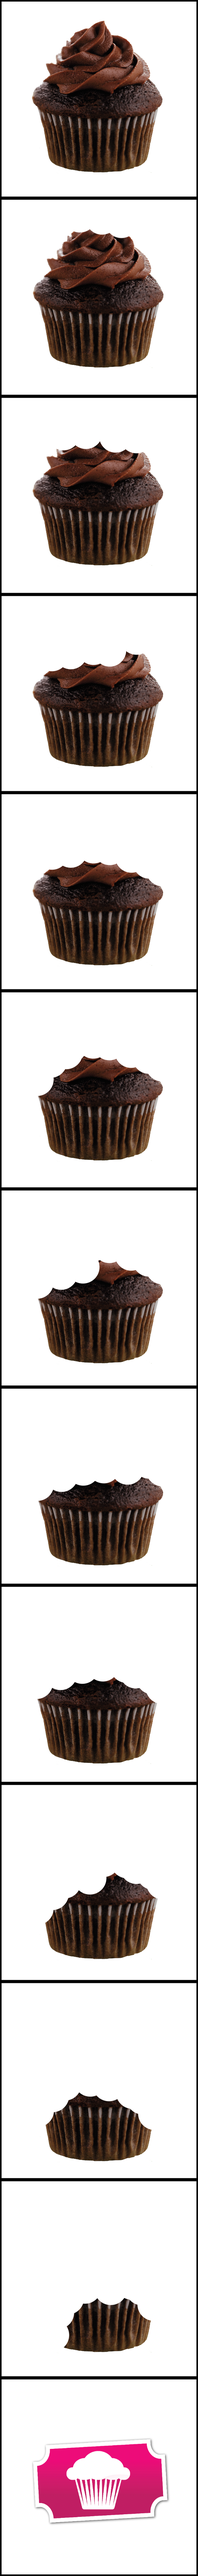
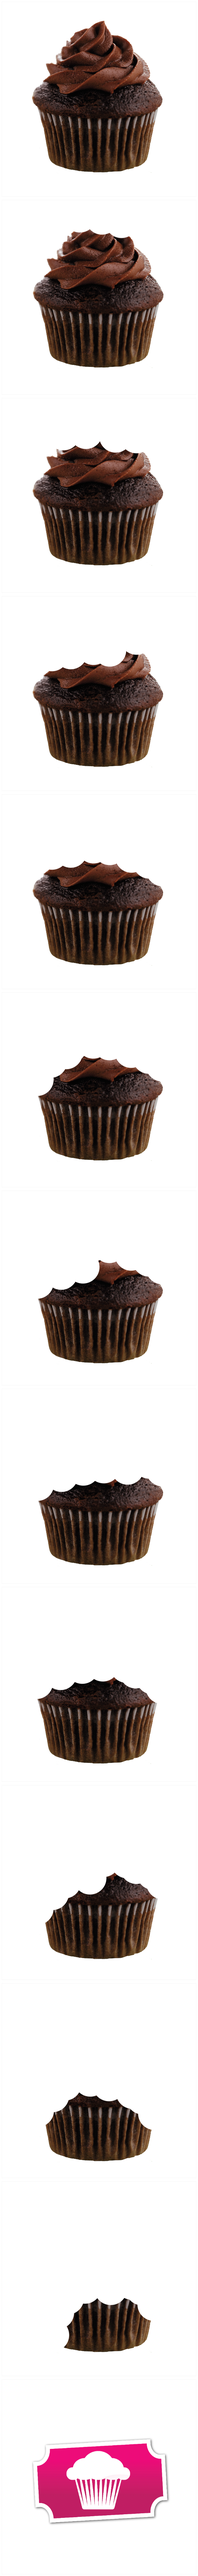
Use of sprites, first cake

Changed region(s): [[0.0, 0.0, 1.0, 1.0]]

diff --git a/java.js b/java.js
@@ -24,6 +24,9 @@ $(window).load(function(){
 //What cake to start with
 var i = 1;
 
+//Begin at the top of the sprite
+var sprite = 0;
+
 //Info
 var title = 'Eat All The Cake';
 var heading = "I'm hungry, gimme cake!";
@@ -287,19 +290,20 @@ function feed(){
 
 	// Change headings
 	i++
+	sprite = sprite + 500;
+
 	if(i == 13){ 
 		count++;
 		document.getElementById('heading').innerHTML = '<h1>'+count+' Cakes eaten ('+bites+' Bites)</h1>';
-		document.getElementById('cake_counter').innerHTML = '<h1 >'+heading_end+'</h1>';
 	}
 	if(i != 13) {
 		document.getElementById('heading').innerHTML = '<h1>'+heading+'</h1>';
-		document.getElementById('cake_counter').innerHTML = ' ';
 	}
 
 	// Simple fix for a loop :P
 	if(i == 14){
 		i = 1;
+		sprite = 0;
 	}
 
 	// Cakes + Notifications
@@ -311,8 +315,9 @@ function feed(){
 		}
 	}
 
-	document.getElementById('cake').src = 'img/cake'+cake_id+'/cake_'+i+'.png';
-	
+	// document.getElementById('cake_img').src = 'img/cake_'+cake_id+'/cake_'+i+'.png';
+	document.getElementById('cake_img').style.marginTop = "-"+sprite+"px";
+
 	// Achievements
 	if(bites == 1) {
 		var achieved_id = ach_id[0];

diff --git a/style.css b/style.css
@@ -55,27 +55,17 @@ hr { border: 0px; border-bottom: 2px dashed #000; padding: 10px; }
 
 .cake {
 	margin-top: 10px;
-    width: 95%;
-    height: 95vw;
-    max-height: 500px;
-    max-width: 500px;
+	height: 500px;
+    width: 500px;
     cursor: pointer;
     position: relative;
     z-index: 999999;
+    text-align: center;
+    overflow: hidden;
+    margin: 0 auto;
 }
-.cake:hover {
-    width: 100%;
-    max-width: 510px;
-    height: 100vw;
-    max-height: 510px;
-    margin-top: 5px;
-}
-.cake:active {
-    width: 90%;
-    max-width: 490px;
-    margin-top: 20px;
-    height: 90vw;
-    max-height: 490px;
+.cake img {
+	width: 100%;	
 }
 .count_box {
     position: absolute;

diff --git a/index.html b/index.html
@@ -57,7 +57,7 @@
             <div id='flashy'><img src='img/cake_bg.png'></div>
             <div id='flashytwo'><img src='img/cake_bg.png'></div>
 
-            <div onClick='feed()'><p id='cake_counter'></p><img src='img/cake1/cake_1.png' id='cake' class='cake'/></div>
+            <div onClick='feed()' id='cake' class='cake'><img src='img/cakes/cake_1.png' id='cake_img'/></div>
 
             <div class='count_box'>
                 <h1>Stats</h1>
